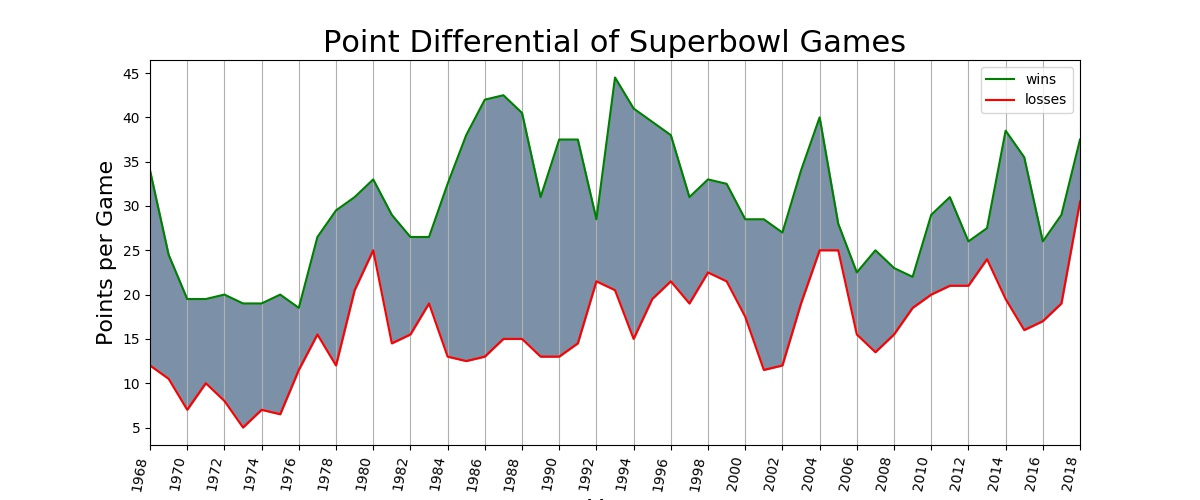
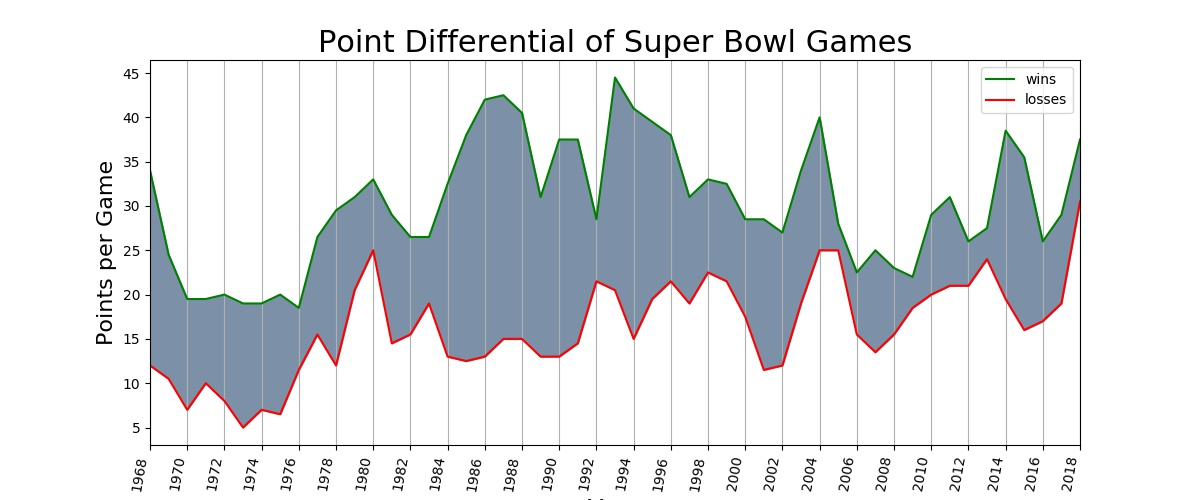
modified chart title

Changed region(s): [[0.2467, 0.06, 0.7708, 0.12]]

diff --git a/superbowl.py b/superbowl.py
@@ -42,7 +42,7 @@ ax = plt.axes()
 ax.xaxis.grid()
 #for rotating xaxis labels
 plt.setp(ax.get_xticklabels(), rotation=80, horizontalalignment='right') 
-plt.title("Point Differential of Superbowl Games", fontsize=22)
+plt.title("Point Differential of Super Bowl Games", fontsize=22)
 plt.plot(years, wins, color='green', label='wins')
 plt.plot(years, losses, color='red', label = 'losses')
 #filling the gap between win and loss line
